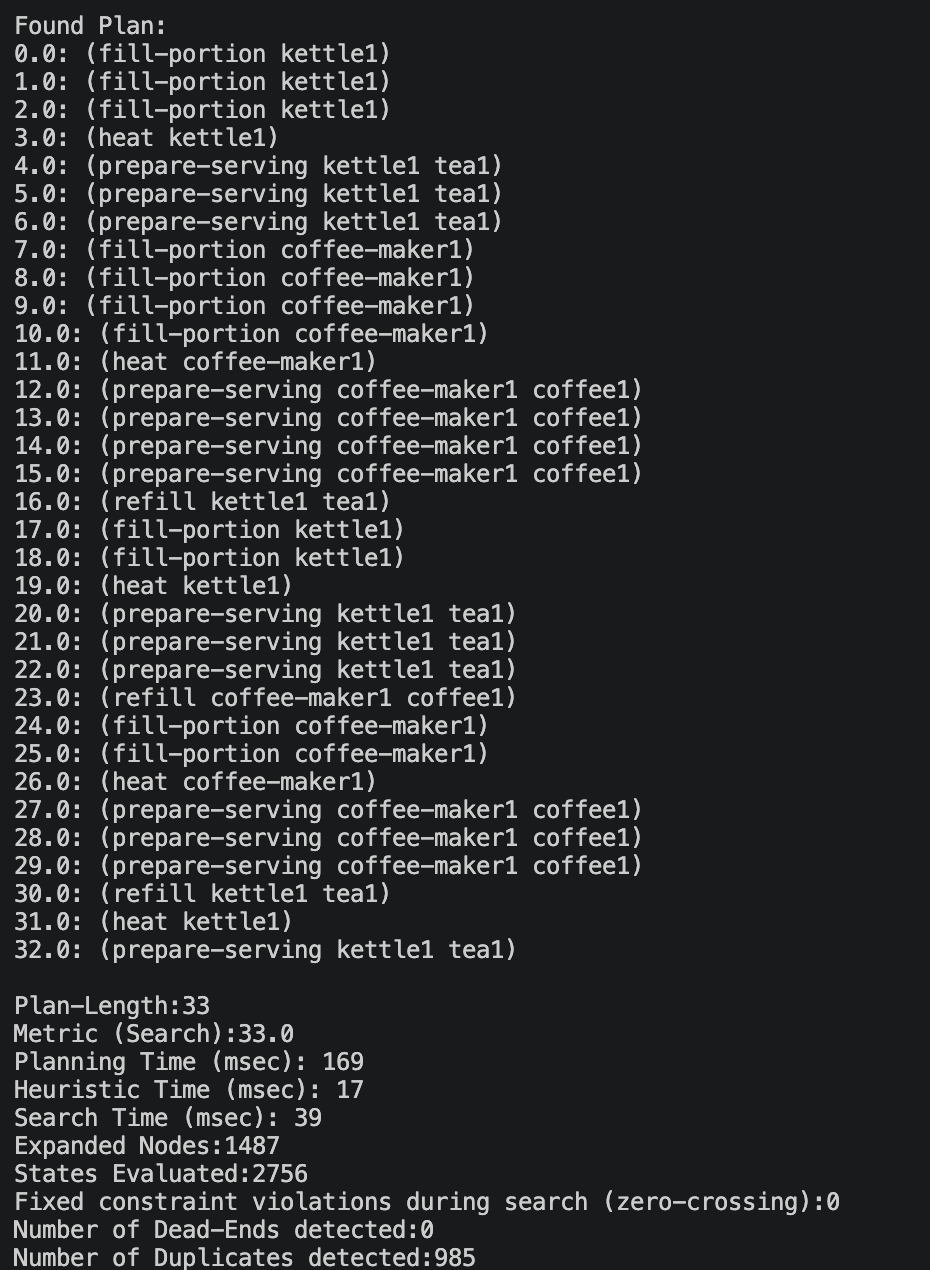
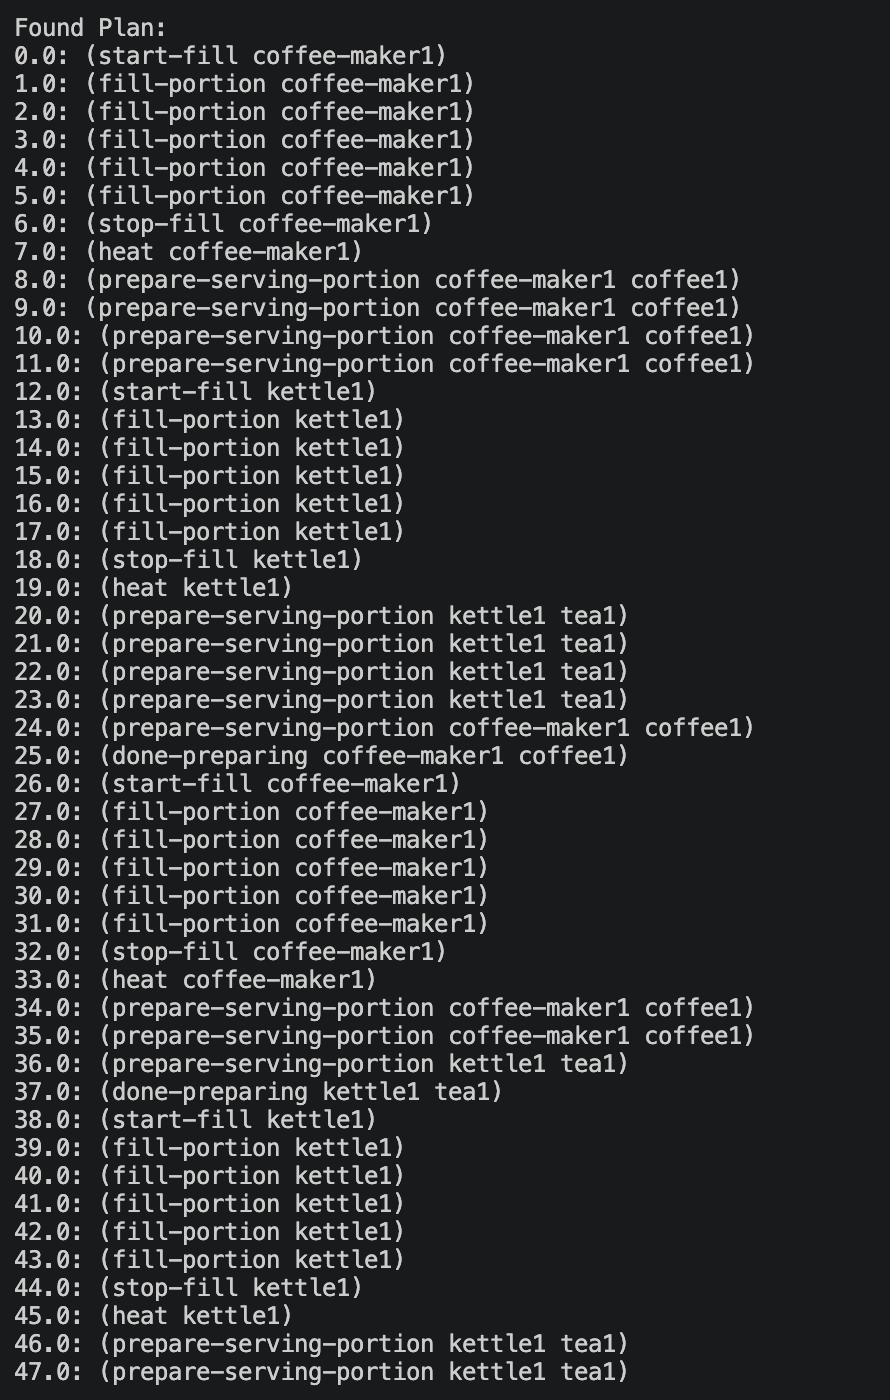
deleted test file

Changed region(s): [[0.0, 0.0, 0.9101, 1.0], [0.7584, 0.4913, 0.8494, 0.522]]

diff --git a/README.md b/README.md
@@ -15,11 +15,10 @@ The robot manage resources efficiently, ensuring that capacity constraints are r
 The task of preparing coffee and tea beverages is devided into the action of filling appliance with water, heating the appliance and then lastly prepare the beverage. The capacity constraints prevent the appliances from being treated as unlimited resources.
 
 ### 1 Basic PDDL Model (Discrete Capacity)
-With the basic PDDL model, appliance capacity is modelled as a maximum number of discrete portions. The action of fill-portion, only fills one portion at a time. The appliance has to be heated before it can prepare the beverage portions, and the appliances cannot be filled with water again until it has prepared all portions of beverages. In order to do this, the action refill is implemented.
+With the basic PDDL model, appliance capacity is modelled as a maximum number of discrete portions. The action of fill-portion, only fills one portion at a time, but it has to fill the appliance full before it can heat and prepare. This modelling choice is not optimal because the robot ends up making more than what is demanded. The appliance has to be heated before it can prepare the beverage portions, and the appliances cannot be filled with water again until it has prepared all portions of beverages. In order to do this, the action refill is implemented. 
 - Problem 1a is where capacity is sufficient, meaning the beverage goal portions is less than the maximum capacity for each appliance.
 - Problem 1b is where capacity constraints require multiple operations, meaning the robot needs to refill the appliances in order to reach the goal volume.
 
-The model treats every action as equal cost, which creates a plan that is not optimized according to the real world. In plan_1a, the goal is to make 3 portions of tea and 4 portions of coffe, while both kettle and coffee-maker has capacity of 5 potions. The plan is that the robot only fill the coffee-maker with 2 portions instead of 4, which means it will have to heat, refill portions and then heat again. The heating of the water is timeconsuming in the real world, but is instantenious in this domain, which is why it result in equal cost.
 
 #### Plans of Basic PDDL Model
 
@@ -39,7 +38,7 @@ The model treats every action as equal cost, which creates a plan that is not op
 
 ### 2 PDDL+ Model (Continous Capacity)
 In the PDDL+ model, the appliance capacity is modelled as continous volume represented as milliliters. 
-The domain is kept simple where only the action of filling water is modelled as a process with an overflow-event. By adding this event, the robot is forced to fill the appliance until it is full, before it can put it on heat. This logic may not be optimal because the robot ends up making more than it actually needs to. An improvement of this could possibly be to implement a stop-filling action the robot could execute before the overflow-event happens.
+The domain is kept simple where only the action of filling water is modelled as a process with an overflow-event. By adding this event, the robot is forced to fill the appliance until it is full, before it can put it on heat. Like in the discrete case, this modelling choise may not be optimal. An improvement of this could possibly be to implement a stop-filling action the robot could execute before the overflow-event happens.
 
 All actions should be modelled with a process and event in order to give a better representation of the real world, and how timing affects the plans. This includes both the heating and beverege preparing. It is however not implemented yet.
 
@@ -63,18 +62,14 @@ The function `fill-rate` represent how fast the current volume increases as wate
 
 ## Discussion
 #### Modelling shared resources
-In the discrete model, the planner alternates the filling operations on the kettle and coffee maker, rather than completing one of them first. 
+The shared resource in this model is the kitchen tap. Both appliances, the kettle and the coffee-maker, need to be filled with water in order to complete the goals. But since there is only one sink, only one appliance can use it at a time. This is ensured by a Mutex using the global predicate `tap-in-use`. By requiring `(not (tap-in-use)` in the `start-fill` action and not releasing until full in the `stop-fill` action, the "Symmetry Trap" is prevented. 
 
-In the PDDL+ model, the shared resource is represented more explicitly where both appliances has to share the tap. The robot is only able to fill one appliance at a time. To ensure this, a global mutex `tap-in-use` predicate is used to introduce scheduling considerations. Without this the robot can alternate the filling processes of kettle and coffee maker, which is not optimum in the real world. 
-
-The advantage of modelling the shared resource explicity is that the plan becomes more realistic. The planner must consider, not only if the task is possible, but also whether sufficient capacity and resource availability exists at the same time.
 
 #### Discrete vs continuous capacity representations
-The discrete capacity representation is accomplished by doing the same action (`fill-portion`) multiple times, which gives the robot more freedom to choose how many portion fillings it does before heating and preparing. All actions happens instantenious, which means that timing has little influnece on capacity management. This is not a valid representation of the real world.
+In the discrete case, two modelling options are available. The choice is between numeric fluents to represent discrete portions (like done in this model) or predicates with symbolic constraints (like using empty, half-full, full predicates to indicate volume). Even tho the planner models portions, time is treated as non-existent where the water "teleports" into the appliances portion-by-portion. 
 
-The continous capacity model allows the filling process to increase continously in time. Timing becomes relevant where the amount of water depends on how long the filling process runs. This makes the model closer to the real world.
+The continous capacity model in PDDL+ allows the filling process to increase continously in time using a `:process` instead of `action`. This approach is more real-world-like because it accounts for the temporal window where the robot actually has to wait for the physical process to finish. 
 
-The trade-off is in complexity. The discrete case is less accurate to the real world, but it is also less computationally heavy. The continues model is more real-world-like, but requires processes, events, temporal resonning which makes planning more computationally demanding.
 
 ## Usage
 Run using this enhsp-20.jar with `\-s WAStar -wh 2`